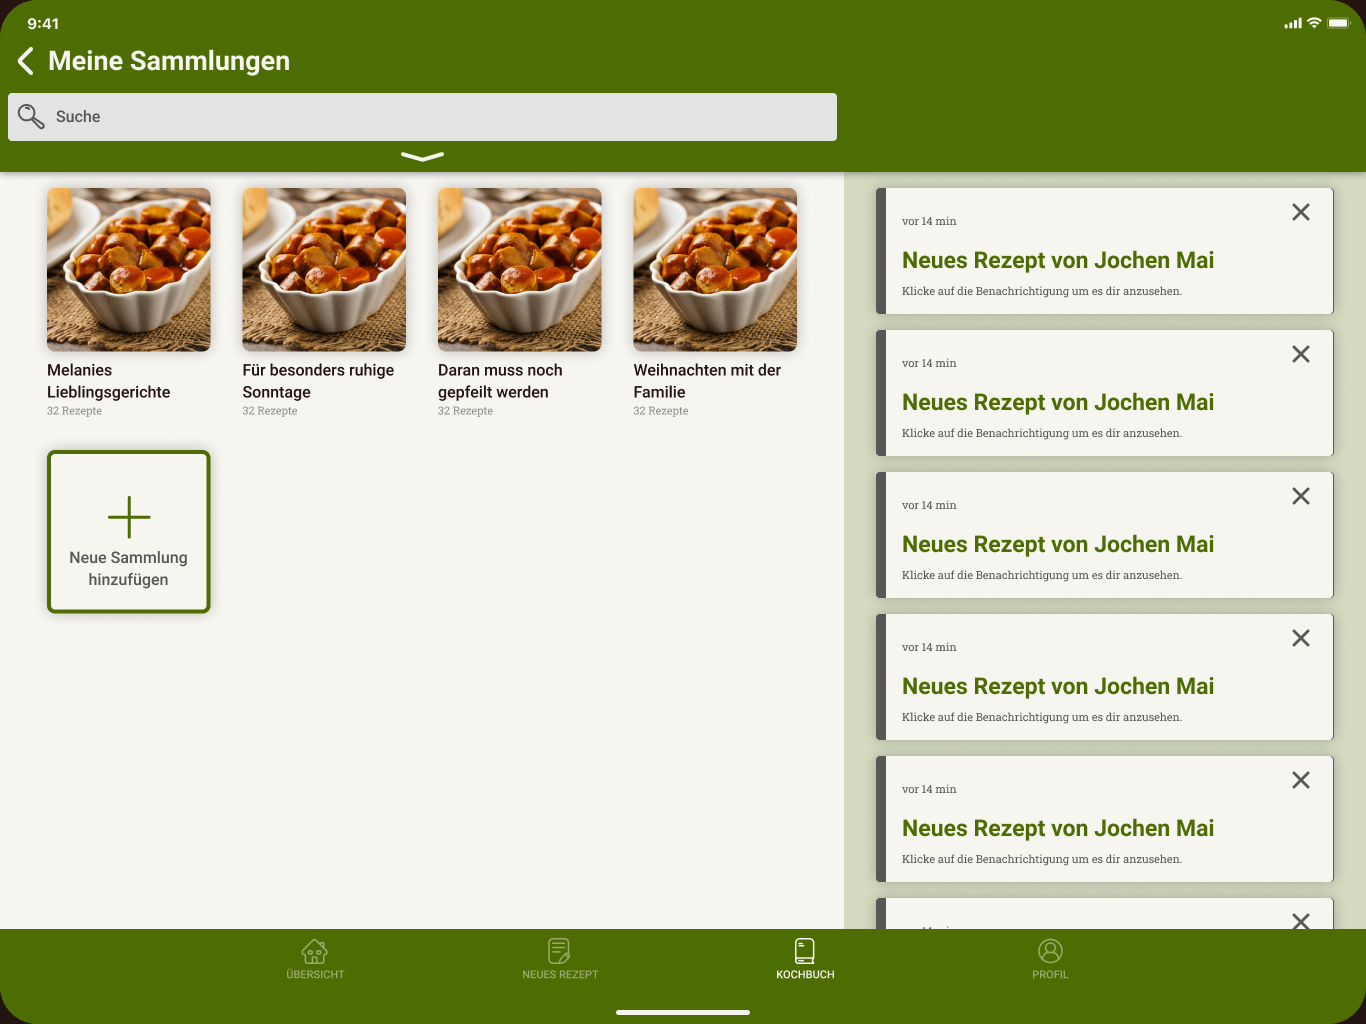
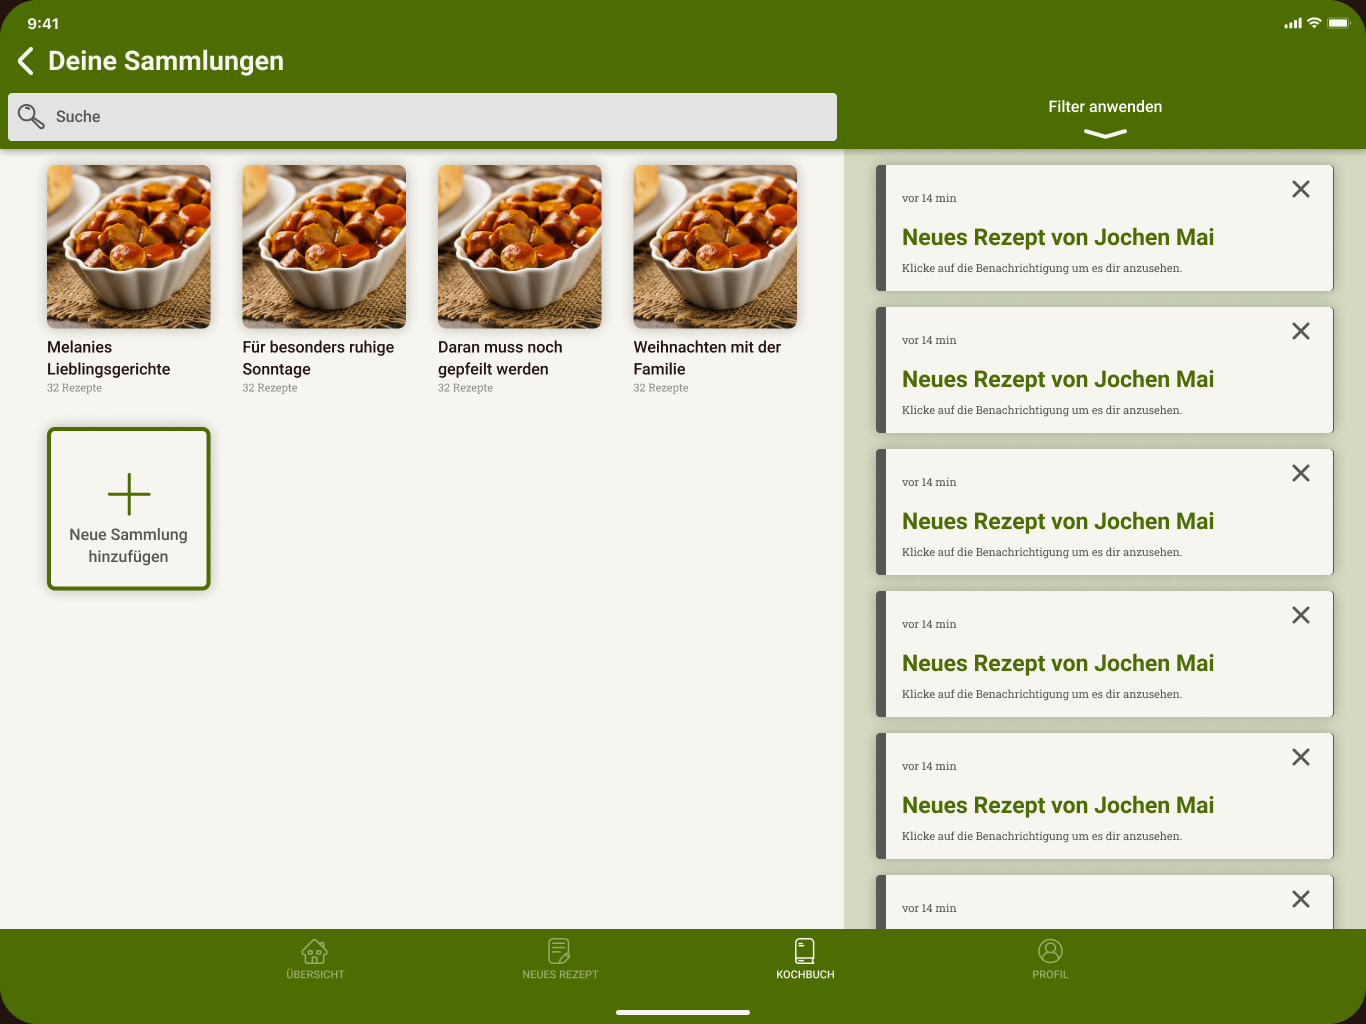
[FEATURE] Add tablet cookbook views and modify mobile versions

Changed region(s): [[0.0, 0.0938, 1.0, 0.9062], [0.0307, 0.0312, 0.2152, 0.0938]]

diff --git a/Artefakte/Zeiterfassung/Arbeitsmatrix.md b/Artefakte/Zeiterfassung/Arbeitsmatrix.md
@@ -158,8 +158,12 @@
 | 22       | Interface Design                    | MockUps                                           | [FEATURE]       | Tablet und Mobile Rezept ansicht                                 | 01.11.21        | 12.10.21            |                 | 3,50            |
 | 22       | Interface Design                    | MockUps                                           | [FEATURE]       | Tablet und Mobile Profile                                        | 01.11.21        | 12.10.21            |                 | 2,25            |
 |          |                                     |                                                   |                 |                                                                  |                 |                     |                 |                 |
+| 22       | Interface Design                    | MockUps                                           | [FEATURE]       | Tablet und Mobile Freundschaftsanfragen und Einstellungen        | 08.11.21        | 12.10.21            |                 | 3,00            |
+| 22       | Interface Design                    | MockUps                                           | [FEATURE]       | Tablet und Mobile Mein Kochbuch und Untermenues                  | 09.11.21        | 12.10.21            |                 | 4,00            |
 |          |                                     |                                                   |                 |                                                                  |                 |                     |                 |                 |
-|          | Stunden insgesamt                   | 339                                               | Stunden Seminar | 55                                                               | Stunden Projekt | 284                 |                 |                 |
-|          |                                     |                                                   | Budget:         | 80                                                               | Budget:         | 31                  |                 |                 |
+|          |                                     |                                                   |                 |                                                                  |                 |                     |                 |                 |
+|          |                                     |                                                   |                 |                                                                  |                 |                     |                 |                 |
+|          | Stunden insgesamt                   | 346                                               | Stunden Seminar | 55                                                               | Stunden Projekt | 291                 |                 |                 |
+|          |                                     |                                                   | Budget:         | 80                                                               | Budget:         | 24                  |                 |                 |
 |          | Kredits erreicht:                   | 12                                                |                 |                                                                  |                 |                     |                 |                 |
 |          | Kredits erfordert:                  | 15                                                |
